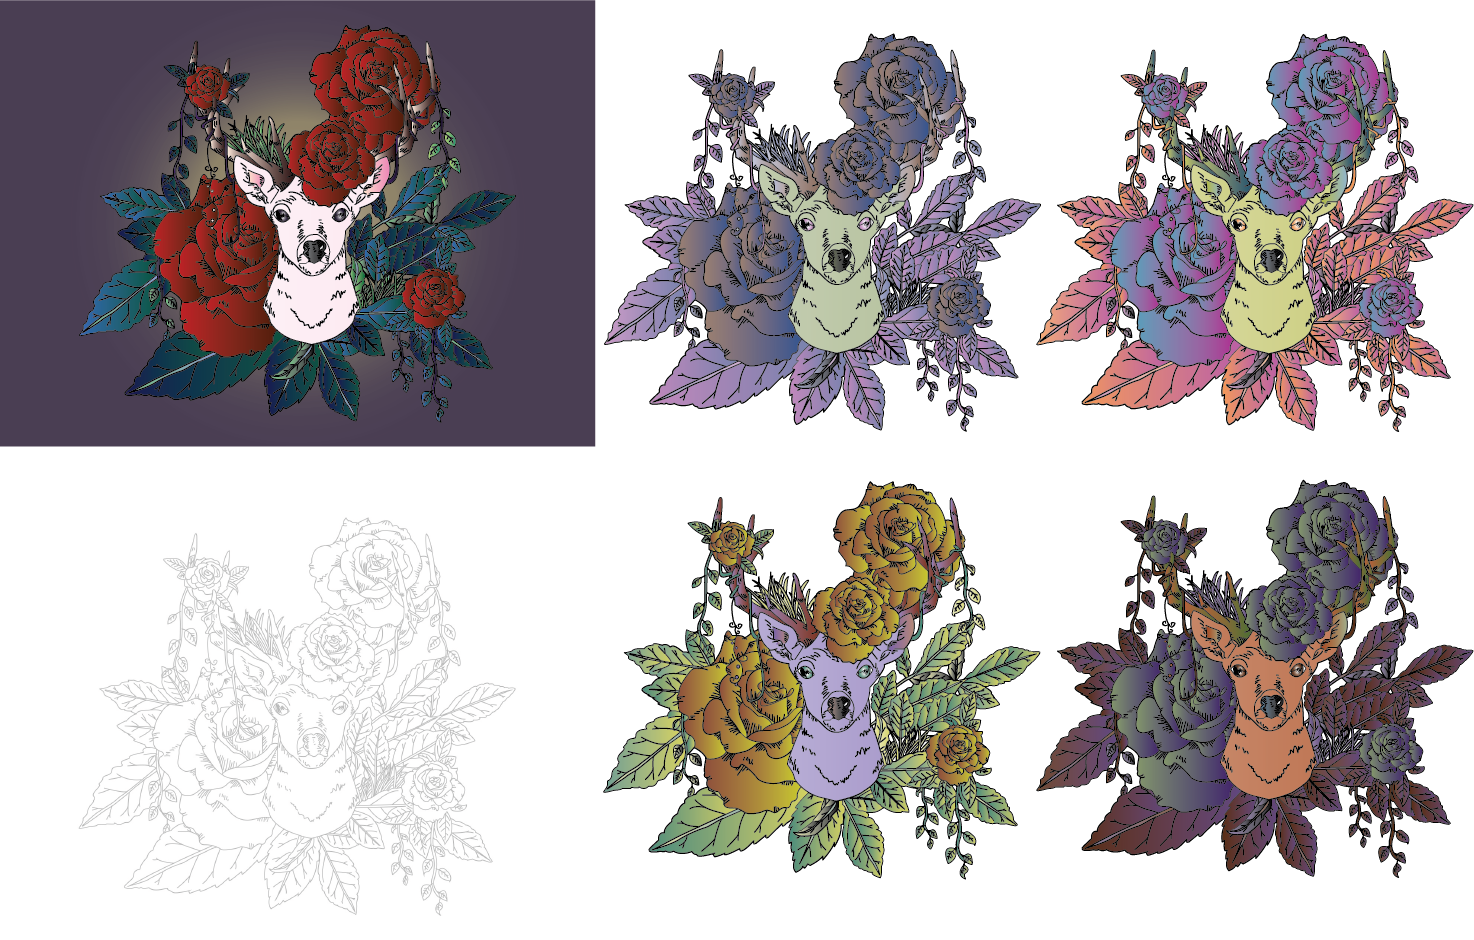
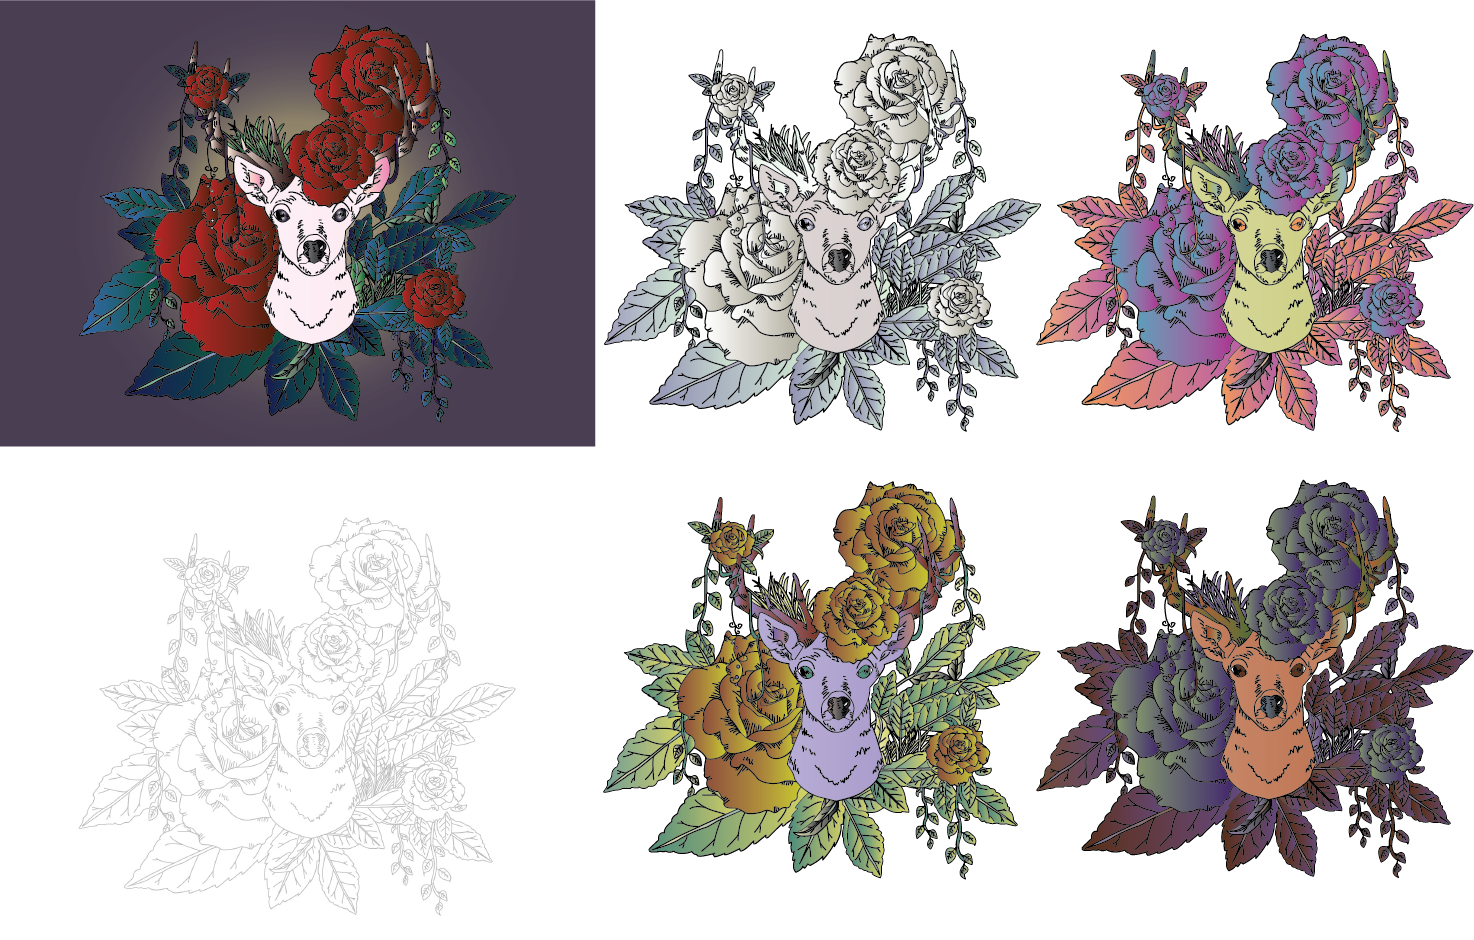
220824
변경

Changed region(s): [[0.4057, 0.0309, 0.7178, 0.4628]]

diff --git a/css/bambi.html b/css/bambi.html
@@ -50,8 +50,12 @@
                 채색은 그라데이션툴을 이용하면 저번토끼작업처럼 펜툴을 이용해서 명암작업하지 않아도 그럴듯한 명암효과를 낼 수 있답니다. 여러분도 써보세요🎨
                 그리고 펜툴 사용법에 대해 아주아주아주 1%정도만 사진으로 설명드릴게요. 오늘의 그림은 <i>펜툴의 진행방향</i>을 
                 잘 컨트롤 하실 수 있어야 그림을 이쁘게 작업할 수 있거든요.
+                <br> 
+                추가로 "채색까지 완료된 그림의 색상을 변경하고 싶은데 언제 다시 색칠하지...?"라는 고민을 품고 계시진 않았나요?
+                그런분들께 드리는 <i>color guide</i>기능이 있습니다. 아래 사진과 함께하시죠!
             </p>
             <img src="../assets/tistory/design_bambi_pen.png" alt="">
+            <img src="../assets/tistory/design_bambi_color.png" alt="">
             
             <hr>
             <img src="../assets/tistory/design_bambi_sketch.jpg" alt="스케치">
